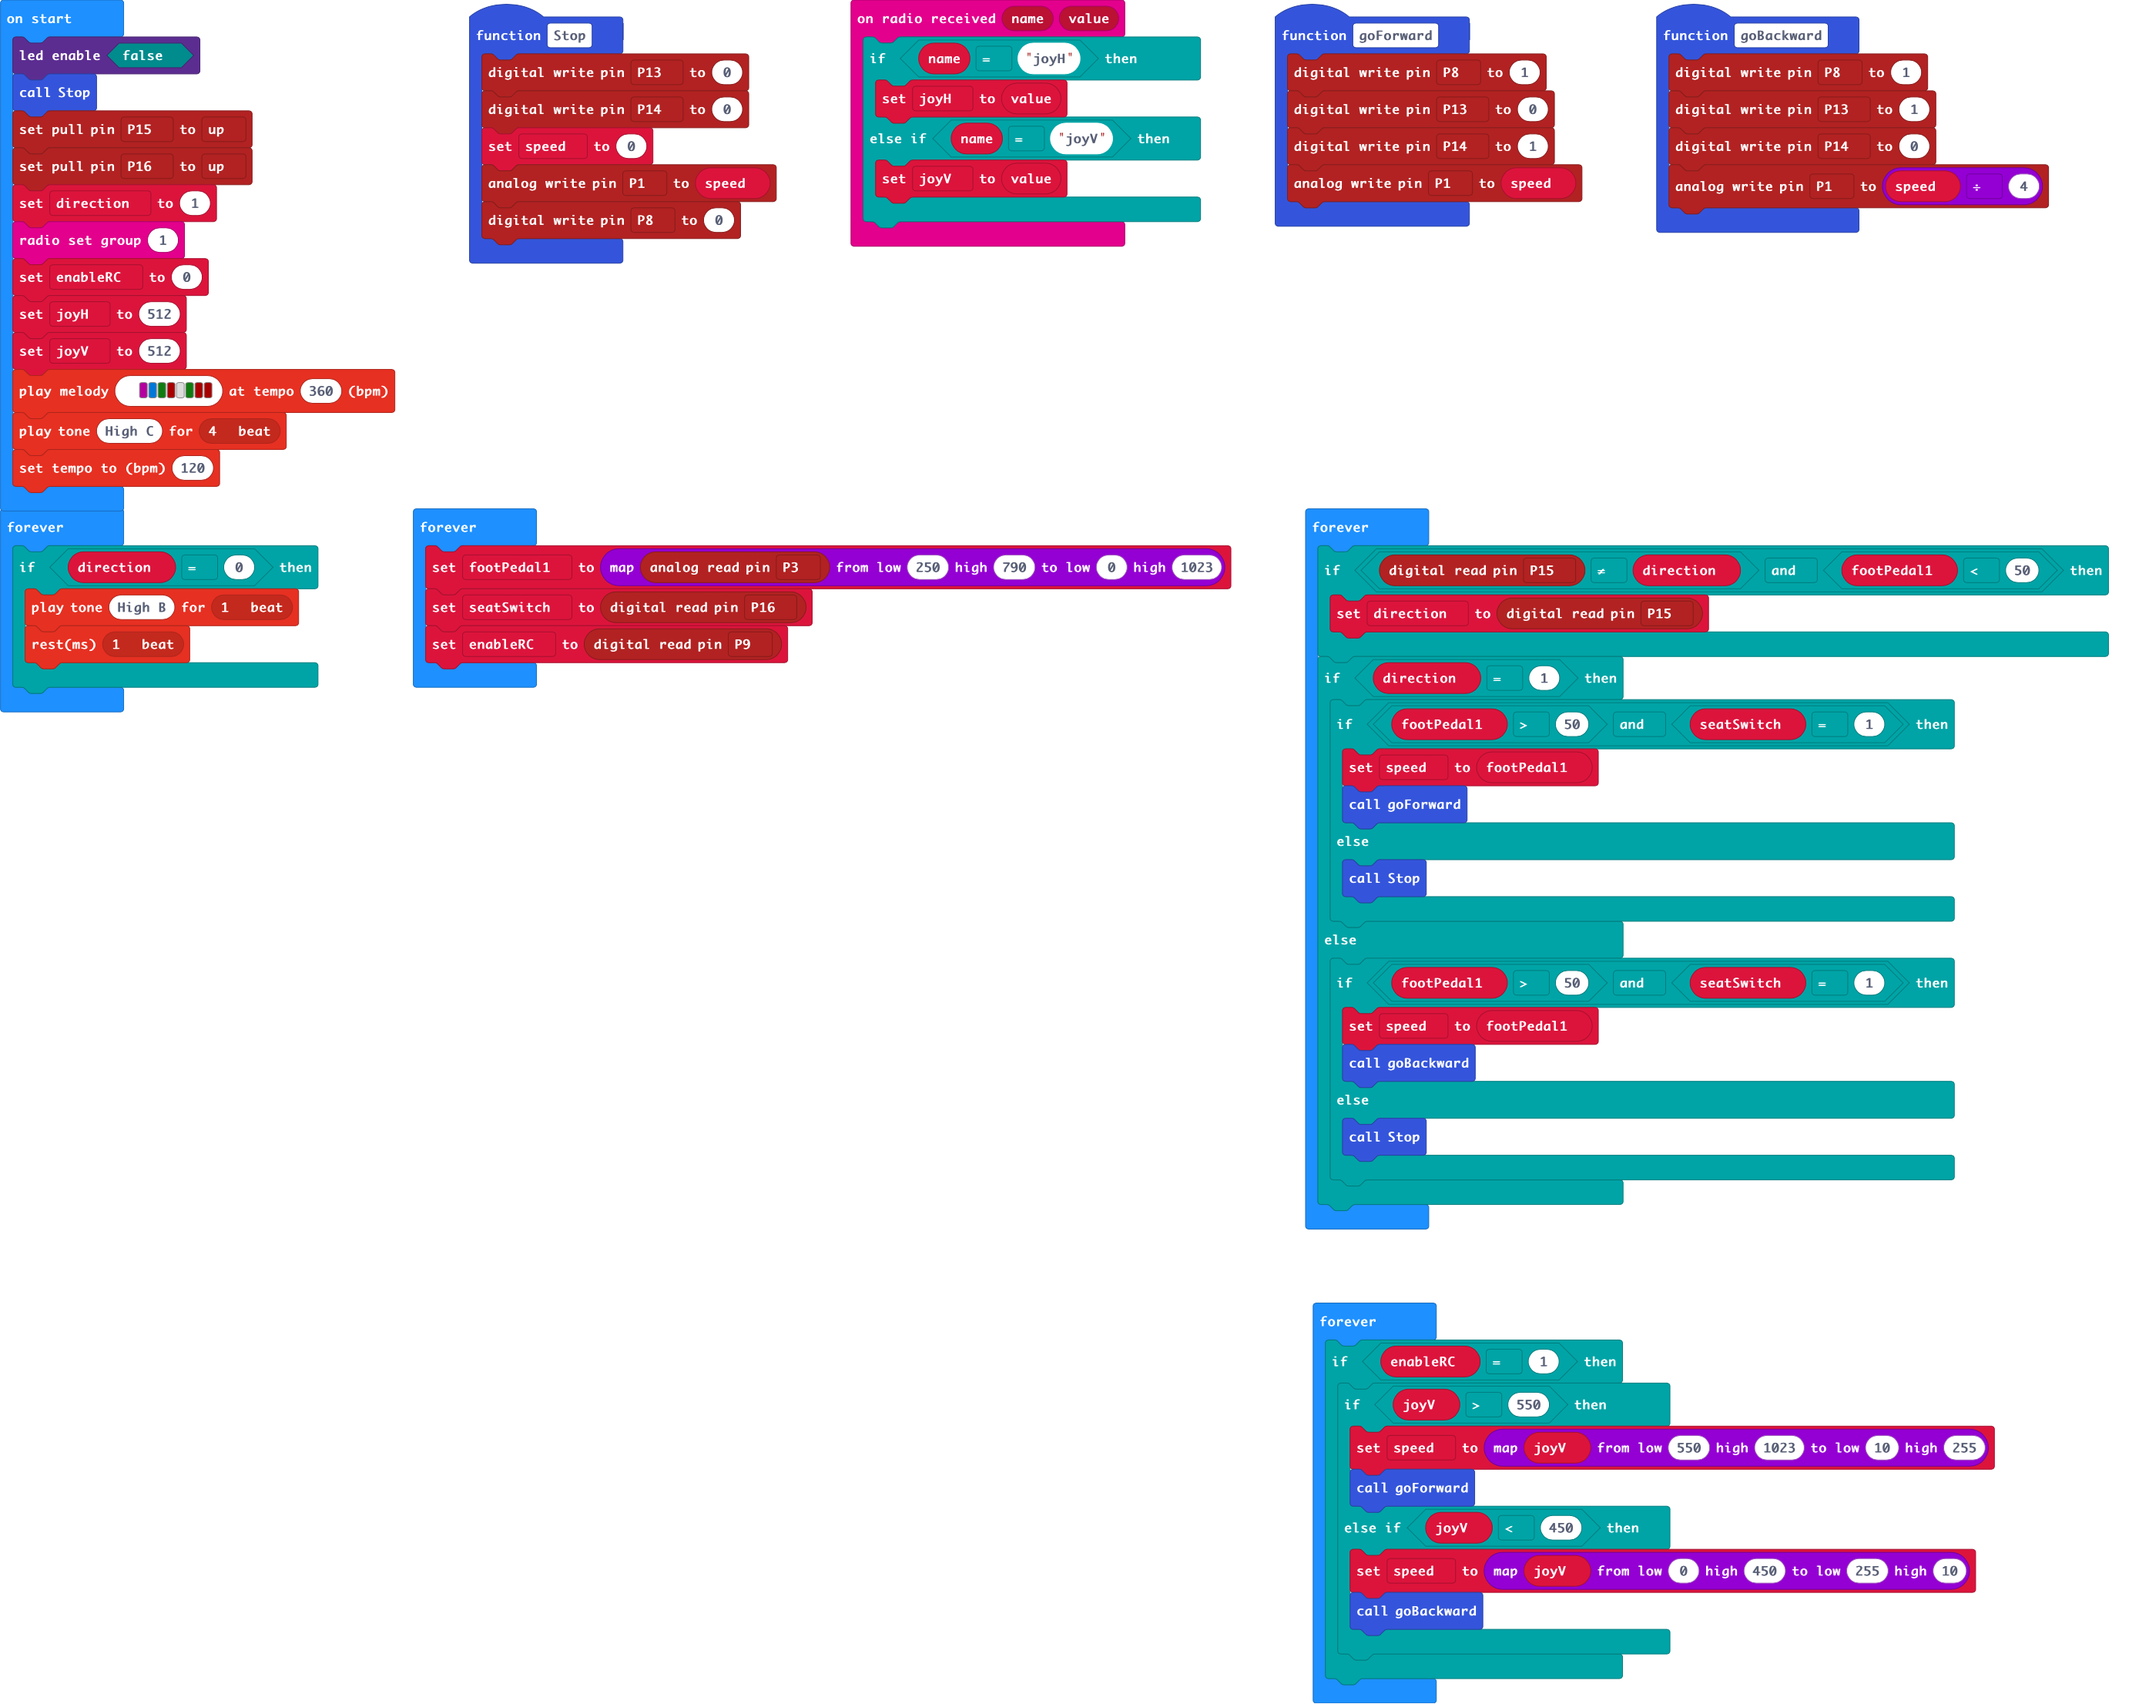
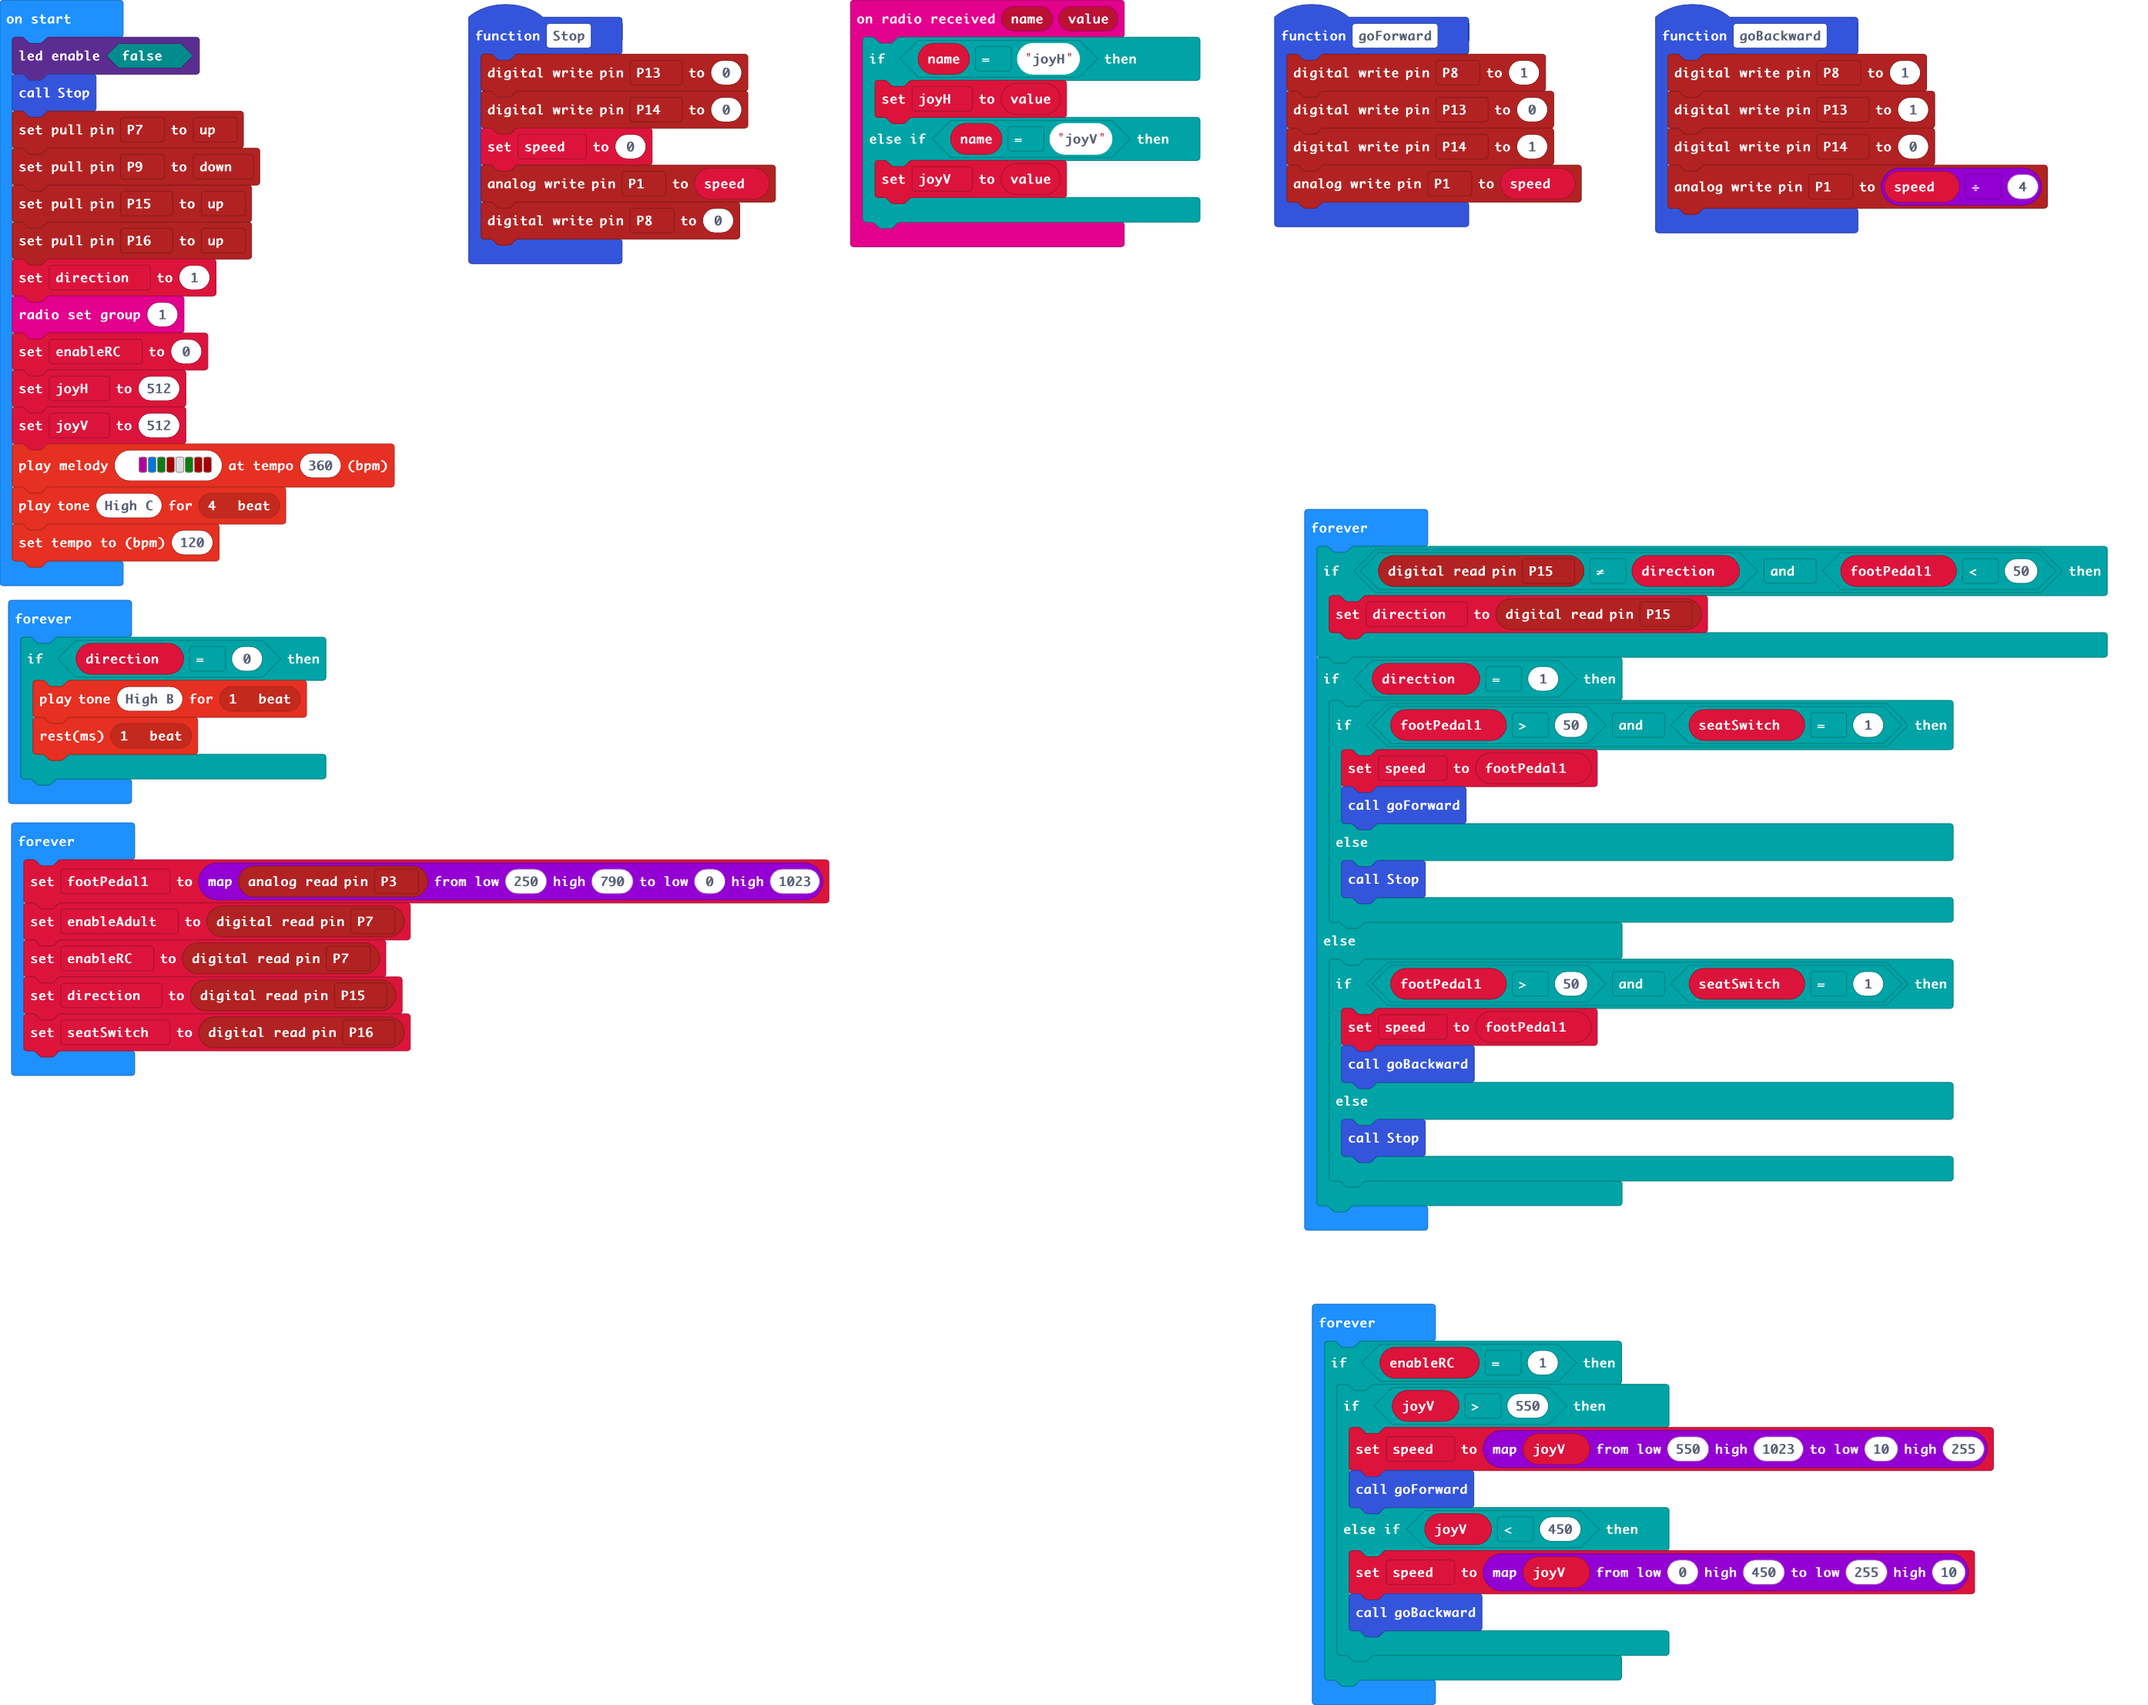
Update pxt.json, main.blocks, main.ts

diff --git a/main.ts b/main.ts
@@ -24,6 +24,7 @@ function Stop () {
     pins.analogWritePin(AnalogPin.P1, speed)
     pins.digitalWritePin(DigitalPin.P8, 0)
 }
+let enableAdult = 0
 let seatSwitch = 0
 let footPedal1 = 0
 let speed = 0
@@ -31,6 +32,8 @@ let joyV = 0
 let joyH = 0
 led.enable(false)
 Stop()
+pins.setPull(DigitalPin.P7, PinPullMode.PullUp)
+pins.setPull(DigitalPin.P9, PinPullMode.PullDown)
 pins.setPull(DigitalPin.P15, PinPullMode.PullUp)
 pins.setPull(DigitalPin.P16, PinPullMode.PullUp)
 let direction = 1
@@ -41,17 +44,6 @@ joyV = 512
 music.playMelody("C E G C5 - G C5 C5 ", 360)
 music.playTone(523, music.beat(BeatFraction.Breve))
 music.setTempo(120)
-basic.forever(function () {
-    if (direction == 0) {
-        music.playTone(988, music.beat(BeatFraction.Whole))
-        music.rest(music.beat(BeatFraction.Whole))
-    }
-})
-basic.forever(function () {
-    footPedal1 = Math.map(pins.analogReadPin(AnalogPin.P3), 250, 790, 0, 1023)
-    seatSwitch = pins.digitalReadPin(DigitalPin.P16)
-    enableRC = pins.digitalReadPin(DigitalPin.P9)
-})
 basic.forever(function () {
     if (pins.digitalReadPin(DigitalPin.P15) != direction && footPedal1 < 50) {
         direction = pins.digitalReadPin(DigitalPin.P15)
@@ -71,6 +63,19 @@ basic.forever(function () {
             Stop()
         }
     }
+})
+basic.forever(function () {
+    if (direction == 0) {
+        music.playTone(988, music.beat(BeatFraction.Whole))
+        music.rest(music.beat(BeatFraction.Whole))
+    }
+})
+basic.forever(function () {
+    footPedal1 = Math.map(pins.analogReadPin(AnalogPin.P3), 250, 790, 0, 1023)
+    enableAdult = pins.digitalReadPin(DigitalPin.P7)
+    enableRC = pins.digitalReadPin(DigitalPin.P7)
+    direction = pins.digitalReadPin(DigitalPin.P15)
+    seatSwitch = pins.digitalReadPin(DigitalPin.P16)
 })
 basic.forever(function () {
     if (enableRC == 1) {
